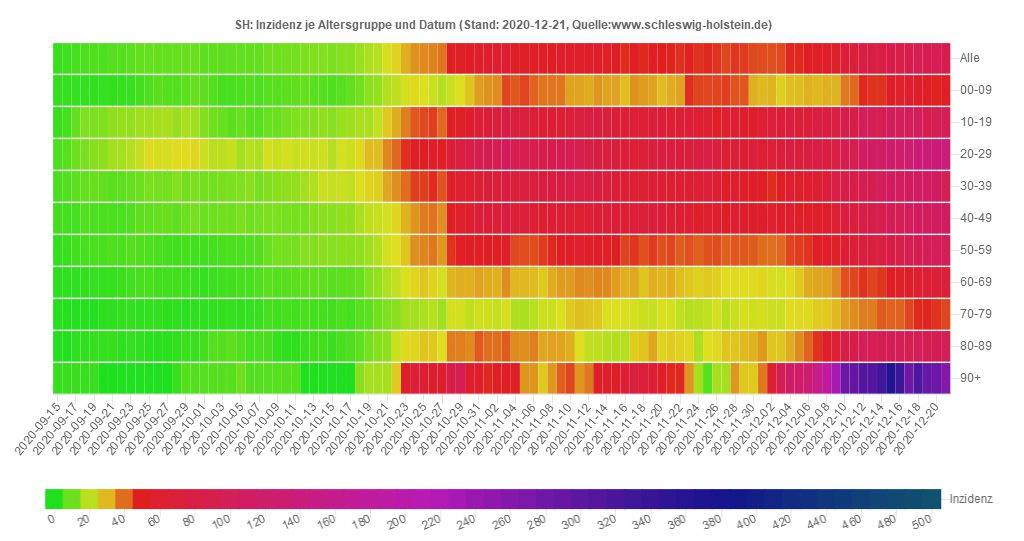
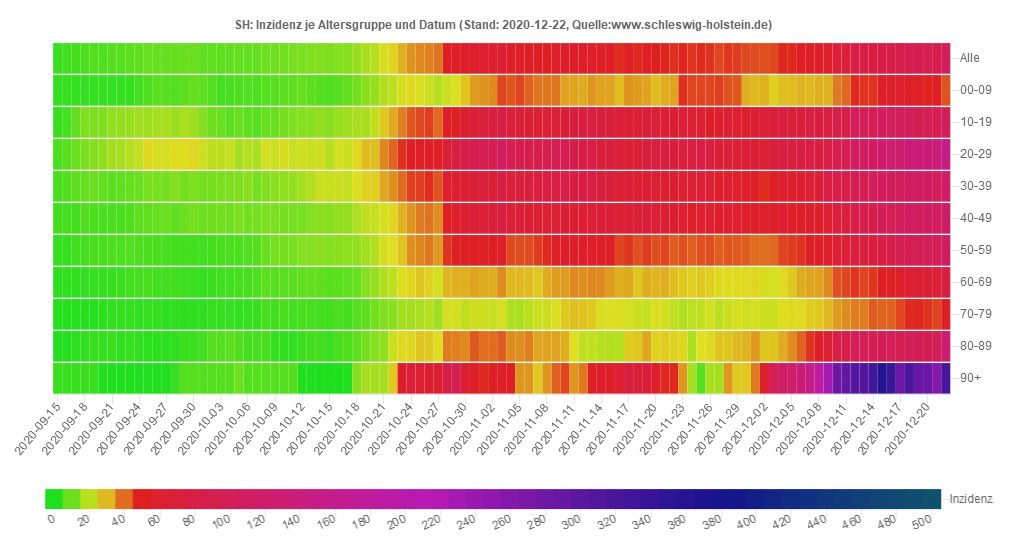
22.12.2020 21:25:11,27

diff --git a/sh/Data_SH.js b/sh/Data_SH.js
@@ -1,33 +1,33 @@
 var chdata={
-labels: ["2020-09-22","2020-09-23","2020-09-24","2020-09-25","2020-09-26","2020-09-27","2020-09-28","2020-09-29","2020-09-30","2020-10-01","2020-10-02","2020-10-03","2020-10-04","2020-10-05","2020-10-06","2020-10-07","2020-10-08","2020-10-09","2020-10-10","2020-10-11","2020-10-12","2020-10-13","2020-10-14","2020-10-15","2020-10-16","2020-10-17","2020-10-18","2020-10-19","2020-10-20","2020-10-21","2020-10-22","2020-10-23","2020-10-24","2020-10-25","2020-10-26","2020-10-27","2020-10-28","2020-10-29","2020-10-30","2020-10-31","2020-11-01","2020-11-02","2020-11-03","2020-11-04","2020-11-05","2020-11-06","2020-11-07","2020-11-08","2020-11-09","2020-11-10","2020-11-11","2020-11-12","2020-11-13","2020-11-14","2020-11-15","2020-11-16","2020-11-17","2020-11-18","2020-11-19","2020-11-20","2020-11-21","2020-11-22","2020-11-23","2020-11-24","2020-11-25","2020-11-26","2020-11-27","2020-11-28","2020-11-29","2020-11-30","2020-12-01","2020-12-02","2020-12-03","2020-12-04","2020-12-05","2020-12-06","2020-12-07","2020-12-08","2020-12-09","2020-12-10","2020-12-11","2020-12-12","2020-12-13","2020-12-14","2020-12-15","2020-12-16","2020-12-17","2020-12-18","2020-12-19","2020-12-20","2020-12-21"],
+labels: ["2020-09-22","2020-09-23","2020-09-24","2020-09-25","2020-09-26","2020-09-27","2020-09-28","2020-09-29","2020-09-30","2020-10-01","2020-10-02","2020-10-03","2020-10-04","2020-10-05","2020-10-06","2020-10-07","2020-10-08","2020-10-09","2020-10-10","2020-10-11","2020-10-12","2020-10-13","2020-10-14","2020-10-15","2020-10-16","2020-10-17","2020-10-18","2020-10-19","2020-10-20","2020-10-21","2020-10-22","2020-10-23","2020-10-24","2020-10-25","2020-10-26","2020-10-27","2020-10-28","2020-10-29","2020-10-30","2020-10-31","2020-11-01","2020-11-02","2020-11-03","2020-11-04","2020-11-05","2020-11-06","2020-11-07","2020-11-08","2020-11-09","2020-11-10","2020-11-11","2020-11-12","2020-11-13","2020-11-14","2020-11-15","2020-11-16","2020-11-17","2020-11-18","2020-11-19","2020-11-20","2020-11-21","2020-11-22","2020-11-23","2020-11-24","2020-11-25","2020-11-26","2020-11-27","2020-11-28","2020-11-29","2020-11-30","2020-12-01","2020-12-02","2020-12-03","2020-12-04","2020-12-05","2020-12-06","2020-12-07","2020-12-08","2020-12-09","2020-12-10","2020-12-11","2020-12-12","2020-12-13","2020-12-14","2020-12-15","2020-12-16","2020-12-17","2020-12-18","2020-12-19","2020-12-20","2020-12-21","2020-12-22"],
 datasets: [
 {label: 'Fälle',
 type: 'bar',
 backgroundColor: window.chartColors.blue,
-data: [38,42,63,53,15,15,38,48,49,27,50,16,24,39,54,45,79,54,26,25,65,65,65,55,90,26,88,163,111,160,136,236,142,115,164,164,280,215,313,265,161,142,236,262,220,274,233,177,215,252,247,192,296,158,161,100,294,208,264,250,153,121,145,251,256,225,180,219,71,81,244,240,245,318,234,154,183,314,297,529,384,472,140,241,486,322,602,508,431,157,211]},
+data: [38,42,63,53,15,15,38,48,49,27,50,16,24,39,54,45,79,54,26,25,65,65,65,55,90,26,88,163,111,160,136,236,142,115,164,164,280,215,313,265,161,142,236,262,220,274,233,177,215,252,247,192,296,158,161,100,294,208,264,250,153,121,145,251,256,225,180,219,71,81,244,240,245,318,234,154,183,314,297,529,384,472,140,241,486,322,602,508,431,157,211,776]},
 {label: '7-Tg. Inzidenz',
 type: 'line',
 pointBackgroundColor: 'orange',
 borderColor: 'orange',
-data: [7.23197027,7.88629139,8.74724023,9.40156135,9.33268544,9.16049567,9.09161977,9.4359993,9.67706498,8.43729865,8.33398478,8.36842274,8.67836432,8.71280227,8.91943,8.78167818,10.5724518,10.7102036,11.0545831,11.0890211,11.9844079,12.3632254,13.0519844,12.2254735,13.4652399,13.4652399,15.634831,19.0097504,20.5938963,23.8655019,26.6549761,31.6829174,35.67772,36.6075447,36.6419827,38.4671942,42.5997487,45.320347,47.9720694,52.2079377,53.7920836,53.0344486,55.5139813,54.8940981,55.0662879,53.7232077,52.6211932,53.1722004,55.6861711,56.2371783,55.720609,54.7563463,55.5139813,52.9311348,52.3801275,48.4197628,49.8661569,48.5230767,51.0026094,49.4184635,49.2462737,47.8687556,49.4184635,47.9376315,49.5906533,48.2475731,45.8369163,48.1098213,46.3879236,44.1838945,43.9428289,43.3918216,44.0805807,48.8330183,49.3495876,52.2079377,55.720609,58.1312658,60.0942291,69.874608,72.1475129,80.3437459,79.8616145,81.8590158,87.7823439,88.6432927,91.1572633,95.4275696,94.0156135,94.6010587,93.5679201]},
+data: [7.23197027,7.88629139,8.74724023,9.40156135,9.33268544,9.16049567,9.09161977,9.4359993,9.67706498,8.43729865,8.33398478,8.36842274,8.67836432,8.71280227,8.91943,8.78167818,10.5724518,10.7102036,11.0545831,11.0890211,11.9844079,12.3632254,13.0519844,12.2254735,13.4652399,13.4652399,15.634831,19.0097504,20.5938963,23.8655019,26.6549761,31.6829174,35.67772,36.6075447,36.6419827,38.4671942,42.5997487,45.320347,47.9720694,52.2079377,53.7920836,53.0344486,55.5139813,54.8940981,55.0662879,53.7232077,52.6211932,53.1722004,55.6861711,56.2371783,55.720609,54.7563463,55.5139813,52.9311348,52.3801275,48.4197628,49.8661569,48.5230767,51.0026094,49.4184635,49.2462737,47.8687556,49.4184635,47.9376315,49.5906533,48.2475731,45.8369163,48.1098213,46.3879236,44.1838945,43.9428289,43.3918216,44.0805807,48.8330183,49.3495876,52.2079377,55.720609,58.1312658,60.0942291,69.874608,72.1475129,80.3437459,79.8616145,81.8590158,87.7823439,88.6432927,91.1572633,95.4275696,94.0156135,94.6010587,93.5679201,103.554927]},
 {label: 'Hospitalisierung',
 type: 'bar',
 backgroundColor: window.chartColors.red,
-data: [1,2,7,1,0,0,2,1,3,1,1,0,4,3,1,1,4,2,0,3,5,1,1,2,4,0,9,10,8,9,12,7,5,6,7,7,11,10,11,6,3,9,19,20,15,15,5,7,13,15,21,13,17,8,17,13,23,10,15,9,7,7,13,16,26,19,12,14,15,10,12,8,10,14,3,5,24,13,26,20,14,12,6,26,27,16,20,18,8,13,13]},
+data: [1,2,7,1,0,0,2,1,3,1,1,0,4,3,1,1,4,2,0,3,5,1,1,2,4,0,9,10,8,9,12,7,5,6,7,7,11,10,11,6,3,9,19,20,15,15,5,7,13,15,21,13,17,8,17,13,23,10,15,9,7,7,13,16,26,19,12,14,15,10,12,8,10,14,3,5,24,13,26,20,14,12,6,26,27,16,20,18,8,13,13,43]},
 {label: 'Hosp. (∑ 14-Tg.)',
 type: 'line',
 borderColor: 'rgba(0,255,0,0.5)',
 borderWidth: 1.5,
 pointRadius: 0,
-data: [12,12,20,22,22,22,22,23,23,21,22,21,24,26,26,25,22,23,23,26,29,29,27,28,31,31,36,43,50,58,66,71,76,79,81,87,97,105,112,118,112,111,122,133,136,144,144,145,151,159,169,172,178,180,194,198,202,192,192,186,188,188,188,189,194,200,195,201,199,196,185,183,178,183,179,177,188,185,185,186,188,186,177,193,208,216,226,230,235,243,232]},
+data: [12,12,20,22,22,22,22,23,23,21,22,21,24,26,26,25,22,23,23,26,29,29,27,28,31,31,36,43,50,58,66,71,76,79,81,87,97,105,112,118,112,111,122,133,136,144,144,145,151,159,169,172,178,180,194,198,202,192,192,186,188,188,188,189,194,200,195,201,199,196,185,183,178,183,179,177,188,185,185,186,188,186,177,193,208,216,226,230,235,243,232,262]},
 {label: 'Aktuell im Krankenhaus',
 type: 'line',
 pointBackgroundColor: 'green',
 borderColor: 'green',
-data: [6,6,6,6,6,6,6,11,11,11,11,14,14,15,15,14,14,14,13,13,18,18,18,21,24,24,24,24,31,31,31,31,51,51,58,58,58,58,58,58,58,94,110,114,119,118,124,120,126,116,113,119,112,116,116,148,145,151,141,141,141,141,155,142,122,113,118,118,118,124,114,110,109,114,114,114,131,122,128,132,133,133,133,177,181,194,201,212,236,250,275]},
+data: [6,6,6,6,6,6,6,11,11,11,11,14,14,15,15,14,14,14,13,13,18,18,18,21,24,24,24,24,31,31,31,31,51,51,58,58,58,58,58,58,58,94,110,114,119,118,124,120,126,116,113,119,112,116,116,148,145,151,141,141,141,141,155,142,122,113,118,118,118,124,114,110,109,114,114,114,131,122,128,132,133,133,133,177,181,194,201,212,236,250,275,271]},
 {label: 'Todesfälle',
 type: 'bar',
 backgroundColor: 'black',
-data: [0,0,0,0,0,0,0,1,0,0,0,0,0,0,0,0,0,0,0,0,0,1,0,0,0,0,0,0,0,0,1,0,0,3,0,0,3,4,1,0,2,6,7,2,2,6,0,1,4,3,5,0,5,1,3,5,0,2,2,2,1,0,3,4,1,3,3,1,4,2,3,1,4,1,0,1,4,2,5,7,7,1,2,2,6,7,11,3,2,0,9]},
+data: [0,0,0,0,0,0,0,1,0,0,0,0,0,0,0,0,0,0,0,0,0,1,0,0,0,0,0,0,0,0,1,0,0,3,0,0,3,4,1,0,2,6,7,2,2,6,0,1,4,3,5,0,5,1,3,5,0,2,2,2,1,0,3,4,1,3,3,1,4,2,3,1,4,1,0,1,4,2,5,7,7,1,2,2,6,7,11,3,2,0,9,15]},
 ]};
 

diff --git a/sh/Data_SH_Alter.js b/sh/Data_SH_Alter.js
@@ -101,7 +101,8 @@ var chdata={
 				{x: '2020-12-18', y: 'Alle', v: 94.0844894, casesum: 2732},{x: '2020-12-18', y: '00-09', v: 56.8708564, casesum: 146},{x: '2020-12-18', y: '10-19', v: 102.895941, casesum: 284},{x: '2020-12-18', y: '20-29', v: 134.390959, casesum: 430},{x: '2020-12-18', y: '30-39', v: 112.470209, casesum: 378},{x: '2020-12-18', y: '40-49', v: 108.660805, casesum: 383},{x: '2020-12-18', y: '50-59', v: 94.6707819, casesum: 469},{x: '2020-12-18', y: '60-69', v: 62.9934256, casesum: 229},{x: '2020-12-18', y: '70-79', v: 48.6599917, casesum: 144},{x: '2020-12-18', y: '80-89', v: 99.5291934, casesum: 178},{x: '2020-12-18', y: '90+', v: 315.79678, casesum: 91},
 				{x: '2020-12-19', y: 'Alle', v: 92.9480369, casesum: 2699},{x: '2020-12-19', y: '00-09', v: 52.1965394, casesum: 134},{x: '2020-12-19', y: '10-19', v: 91.3020322, casesum: 252},{x: '2020-12-19', y: '20-29', v: 134.703496, casesum: 431},{x: '2020-12-19', y: '30-39', v: 108.899726, casesum: 366},{x: '2020-12-19', y: '40-49', v: 107.525967, casesum: 379},{x: '2020-12-19', y: '50-59', v: 99.9190555, casesum: 495},{x: '2020-12-19', y: '60-69', v: 65.4691497, casesum: 238},{x: '2020-12-19', y: '70-79', v: 48.9979083, casesum: 145},{x: '2020-12-19', y: '80-89', v: 98.4108878, casesum: 176},{x: '2020-12-19', y: '90+', v: 288.034425, casesum: 83},
 				{x: '2020-12-20', y: 'Alle', v: 93.7056719, casesum: 2721},{x: '2020-12-20', y: '00-09', v: 49.4698546, casesum: 127},{x: '2020-12-20', y: '10-19', v: 97.4612963, casesum: 269},{x: '2020-12-20', y: '20-29', v: 134.390959, casesum: 430},{x: '2020-12-20', y: '30-39', v: 109.197266, casesum: 367},{x: '2020-12-20', y: '40-49', v: 110.079354, casesum: 388},{x: '2020-12-20', y: '50-59', v: 100.322769, casesum: 497},{x: '2020-12-20', y: '60-69', v: 67.1196325, casesum: 244},{x: '2020-12-20', y: '70-79', v: 47.6462419, casesum: 141},{x: '2020-12-20', y: '80-89', v: 98.4108878, casesum: 176},{x: '2020-12-20', y: '90+', v: 284.564131, casesum: 82},
-				{x: '2020-12-21', y: 'Alle', v: 92.8447231, casesum: 2696},{x: '2020-12-21', y: '00-09', v: 50.2489074, casesum: 129},{x: '2020-12-21', y: '10-19', v: 97.8236059, casesum: 270},{x: '2020-12-21', y: '20-29', v: 136.578719, casesum: 437},{x: '2020-12-21', y: '30-39', v: 101.16368, casesum: 340},{x: '2020-12-21', y: '40-49', v: 108.944515, casesum: 384},{x: '2020-12-21', y: '50-59', v: 100.322769, casesum: 497},{x: '2020-12-21', y: '60-69', v: 69.5953566, casesum: 253},{x: '2020-12-21', y: '70-79', v: 44.942909, casesum: 133},{x: '2020-12-21', y: '80-89', v: 99.5291934, casesum: 178},{x: '2020-12-21', y: '90+', v: 260.272071, casesum: 75}
+				{x: '2020-12-21', y: 'Alle', v: 92.8447231, casesum: 2696},{x: '2020-12-21', y: '00-09', v: 50.2489074, casesum: 129},{x: '2020-12-21', y: '10-19', v: 97.8236059, casesum: 270},{x: '2020-12-21', y: '20-29', v: 136.578719, casesum: 437},{x: '2020-12-21', y: '30-39', v: 101.16368, casesum: 340},{x: '2020-12-21', y: '40-49', v: 108.944515, casesum: 384},{x: '2020-12-21', y: '50-59', v: 100.322769, casesum: 497},{x: '2020-12-21', y: '60-69', v: 69.5953566, casesum: 253},{x: '2020-12-21', y: '70-79', v: 44.942909, casesum: 133},{x: '2020-12-21', y: '80-89', v: 99.5291934, casesum: 178},{x: '2020-12-21', y: '90+', v: 260.272071, casesum: 75},
+				{x: '2020-12-22', y: 'Alle', v: 102.797292, casesum: 2985},{x: '2020-12-22', y: '00-09', v: 43.2374319, casesum: 111},{x: '2020-12-22', y: '10-19', v: 104.34518, casesum: 288},{x: '2020-12-22', y: '20-29', v: 150.955426, casesum: 483},{x: '2020-12-22', y: '30-39', v: 114.25545, casesum: 384},{x: '2020-12-22', y: '40-49', v: 115.753547, casesum: 408},{x: '2020-12-22', y: '50-59', v: 111.223029, casesum: 551},{x: '2020-12-22', y: '60-69', v: 77.2976096, casesum: 281},{x: '2020-12-22', y: '70-79', v: 52.3770744, casesum: 155},{x: '2020-12-22', y: '80-89', v: 129.16429, casesum: 231},{x: '2020-12-22', y: '90+', v: 322.737368, casesum: 93}
 			],
 			backgroundColor: function(context) {
 				return inzColor(context.dataset.data[context.dataIndex].v)
@@ -109,7 +110,7 @@ var chdata={
 			width: function(context) {
 				const a = context.chart.chartArea
 				if (!a) return 0
-				return (a.right - a.left) / 98.5
+				return (a.right - a.left) / 99.5
 			},
 			height: function(context) {
 				const a = context.chart.chartArea
@@ -121,7 +122,7 @@ var chdata={
 	options: {
 		legend: { display: false },
 		scales: {
-			xAxes: [{type: 'category', labels: ["2020-09-15","2020-09-16","2020-09-17","2020-09-18","2020-09-19","2020-09-20","2020-09-21","2020-09-22","2020-09-23","2020-09-24","2020-09-25","2020-09-26","2020-09-27","2020-09-28","2020-09-29","2020-09-30","2020-10-01","2020-10-02","2020-10-03","2020-10-04","2020-10-05","2020-10-06","2020-10-07","2020-10-08","2020-10-09","2020-10-10","2020-10-11","2020-10-12","2020-10-13","2020-10-14","2020-10-15","2020-10-16","2020-10-17","2020-10-18","2020-10-19","2020-10-20","2020-10-21","2020-10-22","2020-10-23","2020-10-24","2020-10-25","2020-10-26","2020-10-27","2020-10-28","2020-10-29","2020-10-30","2020-10-31","2020-11-01","2020-11-02","2020-11-03","2020-11-04","2020-11-05","2020-11-06","2020-11-07","2020-11-08","2020-11-09","2020-11-10","2020-11-11","2020-11-12","2020-11-13","2020-11-14","2020-11-15","2020-11-16","2020-11-17","2020-11-18","2020-11-19","2020-11-20","2020-11-21","2020-11-22","2020-11-23","2020-11-24","2020-11-25","2020-11-26","2020-11-27","2020-11-28","2020-11-29","2020-11-30","2020-12-01","2020-12-02","2020-12-03","2020-12-04","2020-12-05","2020-12-06","2020-12-07","2020-12-08","2020-12-09","2020-12-10","2020-12-11","2020-12-12","2020-12-13","2020-12-14","2020-12-15","2020-12-16","2020-12-17","2020-12-18","2020-12-19","2020-12-20","2020-12-21",], ticks: {display: true},gridlines:{display:false}}],
+			xAxes: [{type: 'category', labels: ["2020-09-15","2020-09-16","2020-09-17","2020-09-18","2020-09-19","2020-09-20","2020-09-21","2020-09-22","2020-09-23","2020-09-24","2020-09-25","2020-09-26","2020-09-27","2020-09-28","2020-09-29","2020-09-30","2020-10-01","2020-10-02","2020-10-03","2020-10-04","2020-10-05","2020-10-06","2020-10-07","2020-10-08","2020-10-09","2020-10-10","2020-10-11","2020-10-12","2020-10-13","2020-10-14","2020-10-15","2020-10-16","2020-10-17","2020-10-18","2020-10-19","2020-10-20","2020-10-21","2020-10-22","2020-10-23","2020-10-24","2020-10-25","2020-10-26","2020-10-27","2020-10-28","2020-10-29","2020-10-30","2020-10-31","2020-11-01","2020-11-02","2020-11-03","2020-11-04","2020-11-05","2020-11-06","2020-11-07","2020-11-08","2020-11-09","2020-11-10","2020-11-11","2020-11-12","2020-11-13","2020-11-14","2020-11-15","2020-11-16","2020-11-17","2020-11-18","2020-11-19","2020-11-20","2020-11-21","2020-11-22","2020-11-23","2020-11-24","2020-11-25","2020-11-26","2020-11-27","2020-11-28","2020-11-29","2020-11-30","2020-12-01","2020-12-02","2020-12-03","2020-12-04","2020-12-05","2020-12-06","2020-12-07","2020-12-08","2020-12-09","2020-12-10","2020-12-11","2020-12-12","2020-12-13","2020-12-14","2020-12-15","2020-12-16","2020-12-17","2020-12-18","2020-12-19","2020-12-20","2020-12-21","2020-12-22",], ticks: {display: true},gridlines:{display:false}}],
 			yAxes: [{type: 'category', labels: ["Alle","00-09","10-19","20-29","30-39","40-49","50-59","60-69","70-79","80-89","90+"], offset:true, ticks: {display: true},gridlines:{display:false}}],
 		},
 	}

diff --git a/sh/Kreis_PI.js b/sh/Kreis_PI.js
@@ -1,33 +1,33 @@
 var chdata={
-labels: ["2020-09-22","2020-09-23","2020-09-24","2020-09-25","2020-09-26","2020-09-27","2020-09-28","2020-09-29","2020-09-30","2020-10-01","2020-10-02","2020-10-03","2020-10-04","2020-10-05","2020-10-06","2020-10-07","2020-10-08","2020-10-09","2020-10-10","2020-10-11","2020-10-12","2020-10-13","2020-10-14","2020-10-15","2020-10-16","2020-10-17","2020-10-18","2020-10-19","2020-10-20","2020-10-21","2020-10-22","2020-10-23","2020-10-24","2020-10-25","2020-10-26","2020-10-27","2020-10-28","2020-10-29","2020-10-30","2020-10-31","2020-11-01","2020-11-02","2020-11-03","2020-11-04","2020-11-05","2020-11-06","2020-11-07","2020-11-08","2020-11-09","2020-11-10","2020-11-11","2020-11-12","2020-11-13","2020-11-14","2020-11-15","2020-11-16","2020-11-17","2020-11-18","2020-11-19","2020-11-20","2020-11-21","2020-11-22","2020-11-23","2020-11-24","2020-11-25","2020-11-26","2020-11-27","2020-11-28","2020-11-29","2020-11-30","2020-12-01","2020-12-02","2020-12-03","2020-12-04","2020-12-05","2020-12-06","2020-12-07","2020-12-08","2020-12-09","2020-12-10","2020-12-11","2020-12-12","2020-12-13","2020-12-14","2020-12-15","2020-12-16","2020-12-17","2020-12-18","2020-12-19","2020-12-20","2020-12-21"],
+labels: ["2020-09-22","2020-09-23","2020-09-24","2020-09-25","2020-09-26","2020-09-27","2020-09-28","2020-09-29","2020-09-30","2020-10-01","2020-10-02","2020-10-03","2020-10-04","2020-10-05","2020-10-06","2020-10-07","2020-10-08","2020-10-09","2020-10-10","2020-10-11","2020-10-12","2020-10-13","2020-10-14","2020-10-15","2020-10-16","2020-10-17","2020-10-18","2020-10-19","2020-10-20","2020-10-21","2020-10-22","2020-10-23","2020-10-24","2020-10-25","2020-10-26","2020-10-27","2020-10-28","2020-10-29","2020-10-30","2020-10-31","2020-11-01","2020-11-02","2020-11-03","2020-11-04","2020-11-05","2020-11-06","2020-11-07","2020-11-08","2020-11-09","2020-11-10","2020-11-11","2020-11-12","2020-11-13","2020-11-14","2020-11-15","2020-11-16","2020-11-17","2020-11-18","2020-11-19","2020-11-20","2020-11-21","2020-11-22","2020-11-23","2020-11-24","2020-11-25","2020-11-26","2020-11-27","2020-11-28","2020-11-29","2020-11-30","2020-12-01","2020-12-02","2020-12-03","2020-12-04","2020-12-05","2020-12-06","2020-12-07","2020-12-08","2020-12-09","2020-12-10","2020-12-11","2020-12-12","2020-12-13","2020-12-14","2020-12-15","2020-12-16","2020-12-17","2020-12-18","2020-12-19","2020-12-20","2020-12-21","2020-12-22"],
 datasets: [
 {label: 'Fälle',
 type: 'bar',
 backgroundColor: window.chartColors.blue,
 yAxisID: 'first-y-axis',
-data: [7,7,2,17,0,9,3,8,10,6,6,7,4,2,7,6,7,4,8,3,11,12,17,9,3,0,36,10,12,34,0,73,34,8,10,0,27,36,60,67,0,32,26,49,42,43,45,24,7,36,47,34,28,43,18,0,51,51,49,47,42,31,55,50,68,43,0,73,18,32,47,59,40,42,0,55,34,78,34,99,50,99,19,19,76,0,146,1,0,0,0]},
+data: [7,7,2,17,0,9,3,8,10,6,6,7,4,2,7,6,7,4,8,3,11,12,17,9,3,0,36,10,12,34,0,73,34,8,10,0,27,36,60,67,0,32,26,49,42,43,45,24,7,36,47,34,28,43,18,0,51,51,49,47,42,31,55,50,68,43,0,73,18,32,47,59,40,42,0,55,34,78,34,99,50,99,19,19,76,0,146,1,0,0,0,343]},
 {label: '7-Tg. Inzidenz',
 type: 'line',
 pointBackgroundColor: 'orange',
 borderColor: 'orange',
 yAxisID: 'first-y-axis',
-data: [10.4300994,12.0104175,11.3782902,14.5389264,12.0104175,14.2228628,14.2228628,14.5389264,15.4871172,16.7513717,13.2746719,15.4871172,13.9067992,13.5907355,13.2746719,12.0104175,12.3264811,11.6943538,12.0104175,11.6943538,14.5389264,16.1192445,19.5959443,20.2280715,19.9120079,17.383499,27.8135983,27.4975347,27.4975347,32.8706162,30.0260436,52.1504969,62.8966598,54.0468786,54.0468786,50.2541151,48.0416698,59.41996,55.311133,65.7412324,63.2127235,70.166123,78.3837771,85.3371767,87.2335584,81.8604769,74.9070773,82.4926041,74.5910137,77.7516499,77.1195226,74.5910137,69.8500594,69.2179322,67.3215505,65.1091052,69.8500594,71.1143139,75.8552681,81.8604769,81.5444133,85.6532403,103.036739,102.720676,108.093757,106.197375,91.3423854,101.140358,97.0315305,89.7620673,88.8138765,85.9693039,85.021113,98.295785,75.2231409,86.9174948,87.549622,97.3475941,89.4460037,108.093757,110.622266,141.912564,130.534274,125.79332,125.161192,114.415029,129.270019,113.782902,82.4926041,76.4873954,70.4821867]},
+data: [10.4300994,12.0104175,11.3782902,14.5389264,12.0104175,14.2228628,14.2228628,14.5389264,15.4871172,16.7513717,13.2746719,15.4871172,13.9067992,13.5907355,13.2746719,12.0104175,12.3264811,11.6943538,12.0104175,11.6943538,14.5389264,16.1192445,19.5959443,20.2280715,19.9120079,17.383499,27.8135983,27.4975347,27.4975347,32.8706162,30.0260436,52.1504969,62.8966598,54.0468786,54.0468786,50.2541151,48.0416698,59.41996,55.311133,65.7412324,63.2127235,70.166123,78.3837771,85.3371767,87.2335584,81.8604769,74.9070773,82.4926041,74.5910137,77.7516499,77.1195226,74.5910137,69.8500594,69.2179322,67.3215505,65.1091052,69.8500594,71.1143139,75.8552681,81.8604769,81.5444133,85.6532403,103.036739,102.720676,108.093757,106.197375,91.3423854,101.140358,97.0315305,89.7620673,88.8138765,85.9693039,85.021113,98.295785,75.2231409,86.9174948,87.549622,97.3475941,89.4460037,108.093757,110.622266,141.912564,130.534274,125.79332,125.161192,114.415029,129.270019,113.782902,82.4926041,76.4873954,70.4821867,154.871172]},
 {label: 'Hospitalisierung',
 type: 'bar',
 backgroundColor: window.chartColors.red,
 yAxisID: 'first-y-axis',
-data: [0,0,0,0,0,0,1,1,0,0,0,0,1,1,1,-1,2,0,0,0,0,0,0,0,0,0,3,2,0,1,0,5,0,1,1,0,1,2,5,2,0,2,1,2,5,3,0,0,3,4,2,3,3,1,1,0,6,1,2,2,2,0,1,2,6,4,0,6,4,4,3,3,2,5,0,2,4,1,6,7,4,1,0,9,5,0,7,0,0,0,0]},
+data: [0,0,0,0,0,0,1,1,0,0,0,0,1,1,1,-1,2,0,0,0,0,0,0,0,0,0,3,2,0,1,0,5,0,1,1,0,1,2,5,2,0,2,1,2,5,3,0,0,3,4,2,3,3,1,1,0,6,1,2,2,2,0,1,2,6,4,0,6,4,4,3,3,2,5,0,2,4,1,6,7,4,1,0,9,5,0,7,0,0,0,0,25]},
 {label: 'Hospitalisierung (∑ 14-Tg.)',
 type: 'line',
 pointRadius: 0,
 borderColor: 'rgba(0,128,0,0.5)',
 borderWidth: 1.5,
 yAxisID: 'first-y-axis',
-data: [2,2,2,2,2,2,3,4,3,2,2,2,3,4,5,4,6,6,6,6,5,4,4,4,4,4,6,7,6,8,6,11,11,12,13,13,14,16,21,23,20,20,21,22,27,25,25,24,26,30,31,32,30,29,30,28,33,32,29,28,30,30,28,26,30,31,28,33,36,40,37,39,39,42,40,42,45,44,44,47,51,46,42,47,49,46,51,46,46,44,40]},
+data: [2,2,2,2,2,2,3,4,3,2,2,2,3,4,5,4,6,6,6,6,5,4,4,4,4,4,6,7,6,8,6,11,11,12,13,13,14,16,21,23,20,20,21,22,27,25,25,24,26,30,31,32,30,29,30,28,33,32,29,28,30,30,28,26,30,31,28,33,36,40,37,39,39,42,40,42,45,44,44,47,51,46,42,47,49,46,51,46,46,44,40,64]},
 {label: 'Todesfälle',
 type: 'bar',
 backgroundColor: 'black',
 yAxisID: 'first-y-axis',
-data: [0,0,0,0,0,0,0,0,0,0,0,0,0,0,0,0,0,0,0,0,0,0,0,0,0,0,0,0,0,0,0,0,0,0,0,0,1,0,0,0,0,0,0,0,0,0,0,0,0,1,0,0,0,0,0,0,0,0,0,0,0,0,0,0,0,1,0,1,0,2,0,0,2,1,0,0,0,1,0,2,1,0,0,0,1,0,7,0,0,0,0]},
+data: [0,0,0,0,0,0,0,0,0,0,0,0,0,0,0,0,0,0,0,0,0,0,0,0,0,0,0,0,0,0,0,0,0,0,0,0,1,0,0,0,0,0,0,0,0,0,0,0,0,1,0,0,0,0,0,0,0,0,0,0,0,0,0,0,0,1,0,1,0,2,0,0,2,1,0,0,0,1,0,2,1,0,0,0,1,0,7,0,0,0,0,4]},
 ]};
 

diff --git a/sh/index_sh_alter.html b/sh/index_sh_alter.html
@@ -5,7 +5,7 @@
 <meta property="og:image" content="index_sh_alter.jpg" />
 <meta property="og:type" content="website" />
 <meta property="og:locale" content="de_DE" />
-<meta property="og:updated_time" content="2020-12-22T14:19:16+01:00" />
+<meta property="og:updated_time" content="2020-12-22T21:25:09+01:00" />
 <title>Altersverteilung der Corona-Fälle in Schleswig-Holstein</title>
 <link rel="stylesheet" href="../css/style.css" media="screen" type="text/css">
 <link rel="stylesheet" media="screen" href="Chart.min.css"> 

diff --git a/sh/index_pi_alter.html b/sh/index_pi_alter.html
@@ -5,7 +5,7 @@
 <meta property="og:image" content="index_pi_alter.jpg" />
 <meta property="og:type" content="website" />
 <meta property="og:locale" content="de_DE" />
-<meta property="og:updated_time" content="2020-12-22T14:19:16+01:00" />
+<meta property="og:updated_time" content="2020-12-22T21:25:09+01:00" />
 <title>Altersverteilung der Corona-Fälle im Kreis Pinneberg</title>
 <link rel="stylesheet" href="../css/style.css" media="screen" type="text/css">
 <link rel="stylesheet" media="screen" href="Chart.min.css"> 

diff --git a/sh/index.html b/sh/index.html
@@ -5,7 +5,7 @@
 <meta property="og:image" content="index.jpg" />
 <meta property="og:type" content="website" />
 <meta property="og:locale" content="de_DE" />
-<meta property="og:updated_time" content="2020-12-22T14:19:16+01:00" />
+<meta property="og:updated_time" content="2020-12-22T21:25:09+01:00" />
 <title>Corona-Fälle im Kreis Pinneberg</title>
 <link rel="stylesheet" href="../css/style.css" media="screen" type="text/css">
 <link rel="stylesheet" media="screen" href="Chart.min.css"> 
